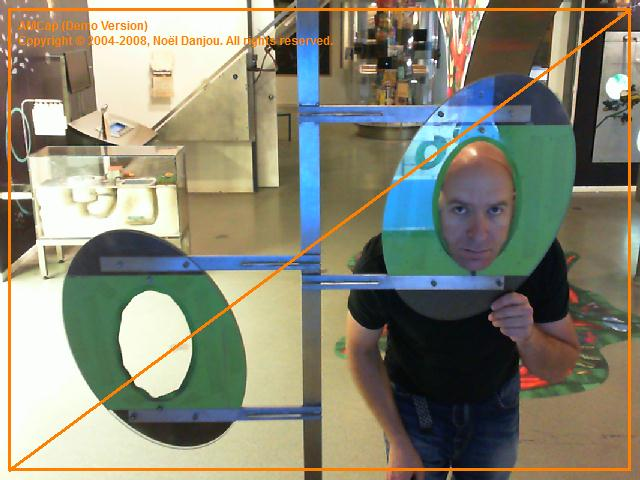
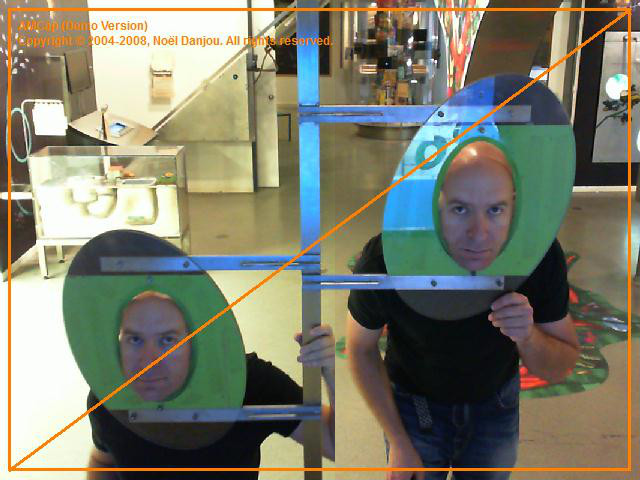
Done with creating masks with image magick + created all possible masks to use at run time. Not available through editor yet. Also fixed Dima's image to be a hybrid of two images so both faces can be seen in movie.

diff --git a/imabean.py b/imabean.py
@@ -28,15 +28,15 @@ SCROLLER_END_X = SCREEN_WIDTH - SCROLLER_MARGIN - SCROLLER_WIDTH
 FIRST_RECT_INDEX = 0
 SECOND_RECT_INDEX = 1
 
-FIRST_FACE_X = 420
-FIRST_FACE_Y = 120
-FIRST_FACE_WIDTH = 120
-FIRST_FACE_HEIGHT = 160
+FIRST_FACE_X = 433
+FIRST_FACE_Y = 132
+FIRST_FACE_WIDTH = 87
+FIRST_FACE_HEIGHT = 142
 
-SECOND_FACE_X = 100
-SECOND_FACE_Y = 280
-SECOND_FACE_WIDTH = 100
-SECOND_FACE_HEIGHT = 140
+SECOND_FACE_X = 111
+SECOND_FACE_Y = 284
+SECOND_FACE_WIDTH = 85
+SECOND_FACE_HEIGHT = 121
 
 OUTSIDE_OF_SCREEN = -1000
 
@@ -493,8 +493,8 @@ print(framesNum)
 if scriptMode != RUN_MODE:
     cameraImage = cv2.imread('./camera-stream.jpg')
 
-alpha1 = cv2.imread('first-alpha-mask.png').astype(np.float)
-alpha2 = cv2.imread('second-alpha-mask.png').astype(np.float)
+alpha1 = cv2.imread('first-mask-ellipse-0.9.png').astype(np.float)
+alpha2 = cv2.imread('second-mask-ellipse-0.9.png').astype(np.float)
 
 face1 = None
 face2 = None
